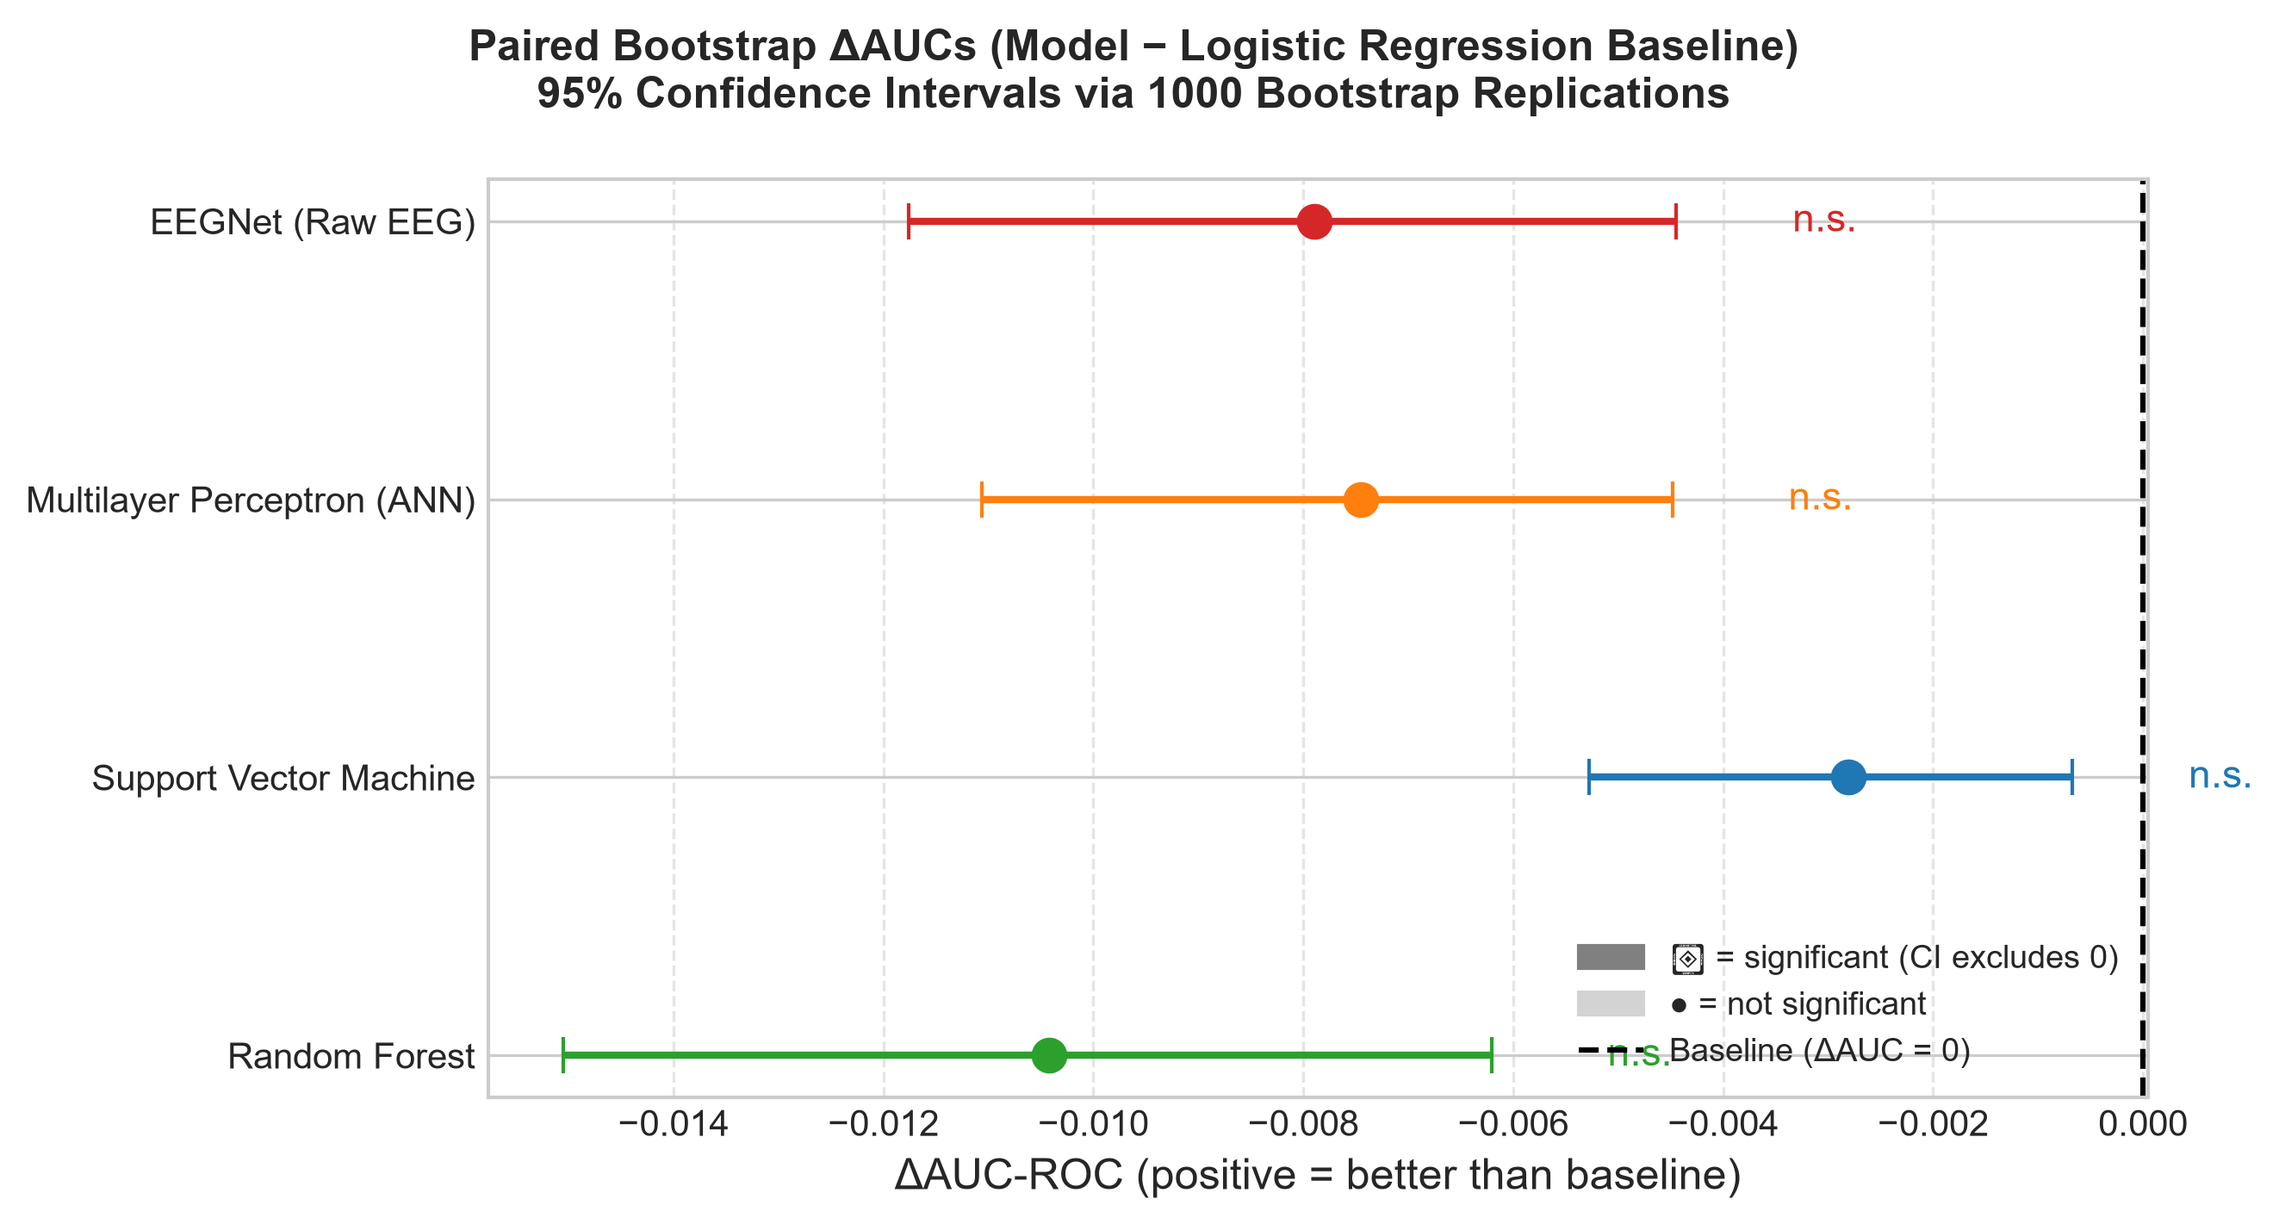
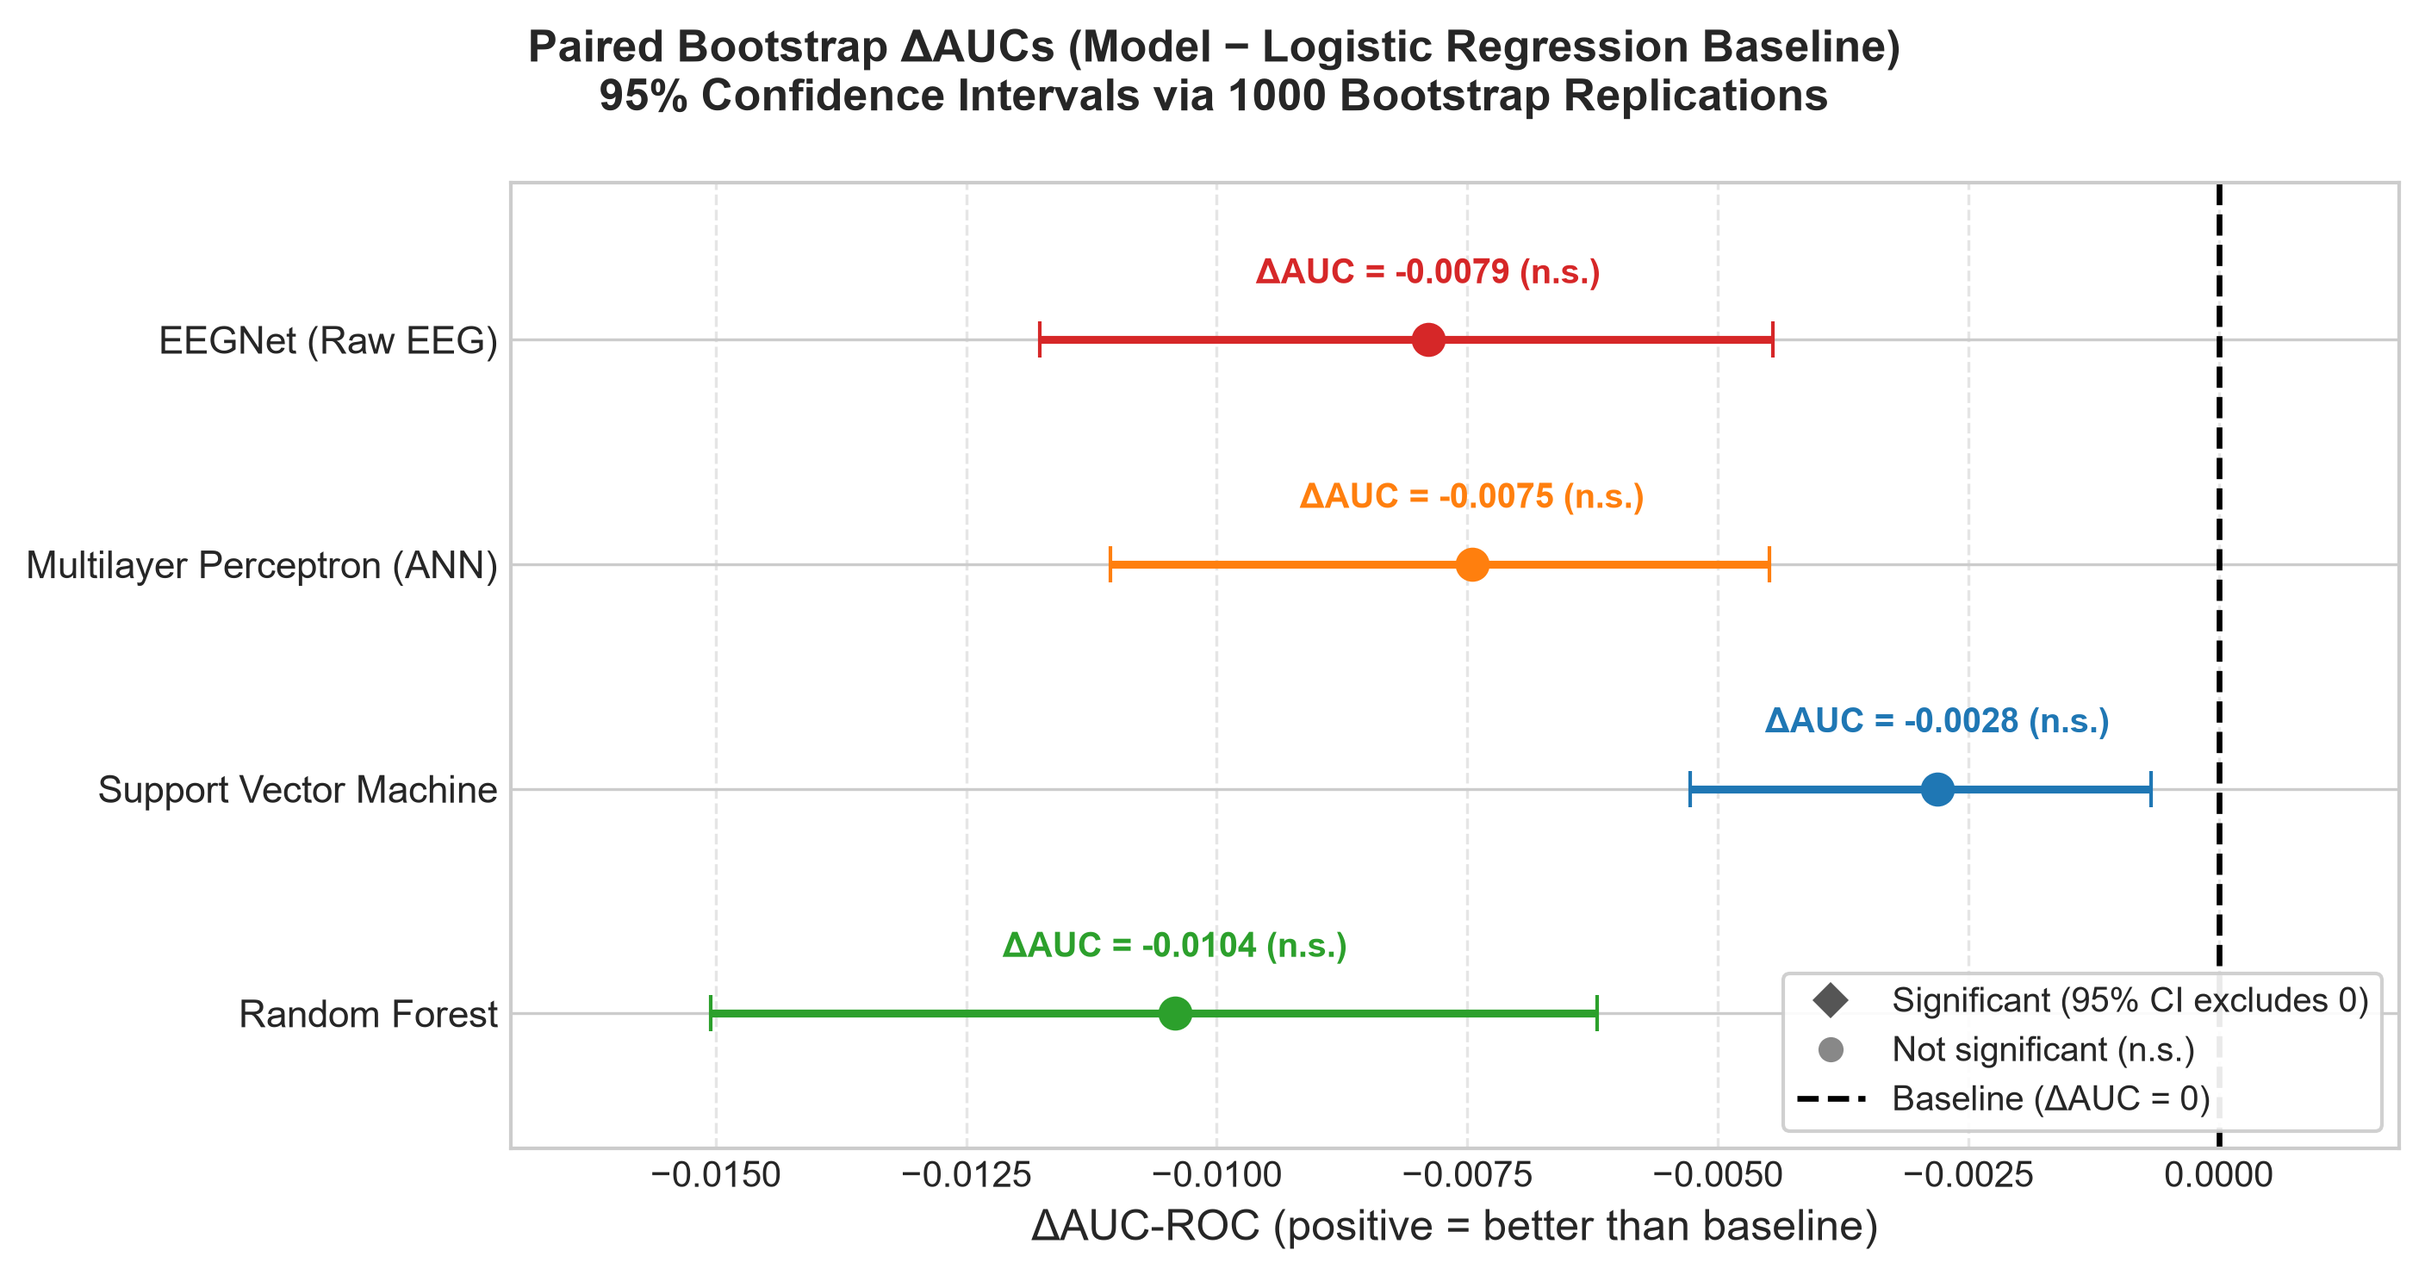
fix(cp2): fix alarm timeline SOP/SPH alignment, error bar clipping, and bootstrap CI legend

diff --git a/src/visualization/plots_cp2.py b/src/visualization/plots_cp2.py
@@ -114,37 +114,55 @@ def plot_model_comparison_bars(
     x = np.arange(n_models)
     width = 0.25
 
-    aucs = [results[m].get('roc_auc_mean', 0.0) for m in models]
-    sens = [results[m].get('seizure_sensitivity_mean', 0.0) * 100 for m in models]
-    fprs = [results[m].get('fpr_per_hour_mean', 0.0) for m in models]
+    aucs = np.array([results[m].get('roc_auc_mean', 0.0) for m in models], dtype=float)
+    sens = np.array([results[m].get('seizure_sensitivity_mean', 0.0) * 100 for m in models], dtype=float)
+    fprs = np.array([results[m].get('fpr_per_hour_mean', 0.0) for m in models], dtype=float)
 
-    auc_std  = [results[m].get('roc_auc_std', 0.0) for m in models]
-    sens_std = [results[m].get('seizure_sensitivity_std', 0.0) * 100 for m in models]
-    fpr_std  = [results[m].get('fpr_per_hour_std', 0.0) for m in models]
+    auc_std  = np.array([results[m].get('roc_auc_std', 0.0) for m in models], dtype=float)
+    sens_std = np.array([results[m].get('seizure_sensitivity_std', 0.0) * 100 for m in models], dtype=float)
+    fpr_std  = np.array([results[m].get('fpr_per_hour_std', 0.0) for m in models], dtype=float)
 
     colors = [_PALETTE.get(m, '#333333') for m in models]
 
-    fig, axes = plt.subplots(1, 3, figsize=(15, 5))
-    fig.suptitle("Model Comparison — LOSO Cross-Validation (Checkpoint 2)", fontweight='bold')
+    fig, axes = plt.subplots(1, 3, figsize=(15, 5.2))
+    fig.suptitle("Model Comparison — LOSO Cross-Validation (Checkpoint 2)", fontweight='bold', y=1.02)
 
-    for ax, values, stds, ylabel, title, ylim in [
-        (axes[0], aucs, auc_std,  'AUC-ROC',                    'AUC-ROC (↑ better)',           (0, 1.05)),
-        (axes[1], sens, sens_std, 'Seizure Sensitivity (%)',     'Seizure Sensitivity (↑ better)', (0, 110)),
-        (axes[2], fprs, fpr_std,  'False Alarms / Hour (FPR/h)', 'FPR/h (↓ better)',             (0, max(max(fprs) * 1.5, 0.5))),
-    ]:
-        bars = ax.bar(x, values, width * 2.5, color=colors,
-                      yerr=stds, capsize=4, error_kw={'elinewidth': 1.5}, alpha=0.87)
+    max_fpr_top = float(np.max(fprs + fpr_std)) if len(fprs) > 0 else 1.0
+    fpr_ylim = (0.0, max(max_fpr_top * 1.18, 1.0))
+
+    panel_specs = [
+        (axes[0], aucs, auc_std,  1.0,   'AUC-ROC',                    'AUC-ROC (↑ better)',             (0.0, 1.12), '{:.3f}'),
+        (axes[1], sens, sens_std, 100.0, 'Seizure Sensitivity (%)',     'Seizure Sensitivity (↑ better)', (0.0, 115.0), '{:.1f}%'),
+        (axes[2], fprs, fpr_std,  None,  'False Alarms / Hour (FPR/h)', 'FPR/h (↓ better)',               fpr_ylim,     '{:.2f}'),
+    ]
+
+    for ax, values, stds, upper_cap, ylabel, title, ylim, fmt_str in panel_specs:
+        lower_err = np.minimum(values, stds)
+        if upper_cap is not None:
+            upper_err = np.minimum(stds, np.maximum(0.0, upper_cap - values))
+        else:
+            upper_err = stds
+
+        bars = ax.bar(
+            x, values, width * 2.4, color=colors,
+            yerr=[lower_err, upper_err], capsize=4,
+            error_kw={'elinewidth': 1.4, 'ecolor': '#222222', 'capthick': 1.3},
+            alpha=0.88, edgecolor='white', linewidth=0.8
+        )
         ax.set_xticks(x)
-        ax.set_xticklabels(models, rotation=15, ha='right', fontsize=9)
+        ax.set_xticklabels(models, rotation=18, ha='right', fontsize=9.5)
         ax.set_ylabel(ylabel)
         ax.set_title(title, fontweight='bold')
         ax.set_ylim(ylim)
         ax.grid(True, linestyle='--', alpha=0.4, axis='y')
 
-        # Value labels
-        for bar, v in zip(bars, values):
-            ax.text(bar.get_x() + bar.get_width() / 2, bar.get_height() + 0.01 * ylim[1],
-                    f'{v:.3f}', ha='center', va='bottom', fontsize=8.5, fontweight='bold')
+        # Place value labels above the top of the error bar cap so they never collide
+        for bar, v, u_err in zip(bars, values, upper_err):
+            top_y = v + u_err + 0.02 * ylim[1]
+            ax.text(
+                bar.get_x() + bar.get_width() / 2, top_y,
+                fmt_str.format(v), ha='center', va='bottom', fontsize=9, fontweight='bold'
+            )
 
     plt.tight_layout()
     _save_or_show(fig, output_path)
@@ -174,33 +192,42 @@ def plot_bootstrap_ci(
 
     y_pos = np.arange(len(models))
 
-    fig, ax = plt.subplots(figsize=(9, max(4, len(models) * 1.2)))
+    fig, ax = plt.subplots(figsize=(9.5, max(4.5, len(models) * 1.25)))
     fig.suptitle(
         "Paired Bootstrap ΔAUCs (Model − Logistic Regression Baseline)\n"
         "95% Confidence Intervals via 1000 Bootstrap Replications",
-        fontweight='bold', fontsize=12
+        fontweight='bold', fontsize=12.5
     )
 
     for i, (m, mn, lo, hi, s) in enumerate(zip(models, means, lowers, uppers, sig)):
         color = _PALETTE.get(m, '#333333')
         marker = 'D' if s else 'o'
         ax.errorbar(mn, i, xerr=[[mn - lo], [hi - mn]], fmt=marker,
-                    color=color, markersize=9, capsize=5, lw=2, elinewidth=2)
-        ax.text(hi + 0.001, i, f' {"*" if s else "n.s."}', va='center',
-                fontsize=11, color=color)
+                    color=color, markersize=8.5, capsize=5, lw=2.2, elinewidth=2.2)
+        label_txt = f"ΔAUC = {mn:+.4f} ({'sig.' if s else 'n.s.'})"
+        ax.text(mn, i + 0.22, label_txt, va='bottom', ha='center',
+                fontsize=9.5, fontweight='bold', color=color)
 
-    ax.axvline(0, color='black', linestyle='--', lw=1.5, label='Baseline (ΔAUC = 0)')
+    ax.axvline(0, color='black', linestyle='--', lw=1.6, label='Baseline (ΔAUC = 0)')
     ax.set_yticks(y_pos)
-    ax.set_yticklabels(models)
+    ax.set_yticklabels(models, fontsize=10.5)
+    ax.set_ylim(-0.6, len(models) - 0.3)
+
+    min_x = min(lowers) - 0.0020
+    max_x = max(0.0018, max(uppers) + 0.0020)
+    ax.set_xlim(min_x, max_x)
     ax.set_xlabel("ΔAUC-ROC (positive = better than baseline)")
-    ax.legend(loc='lower right')
     ax.grid(True, linestyle='--', alpha=0.5, axis='x')
 
-    # Significance legend
-    sig_patch = mpatches.Patch(color='gray', label='◆ = significant (CI excludes 0)')
-    ns_patch  = mpatches.Patch(color='lightgray', label='● = not significant')
-    ax.legend(handles=[sig_patch, ns_patch] + ax.get_legend_handles_labels()[0],
-              loc='lower right', fontsize=9)
+    # Clean marker legend (no broken Unicode glyphs)
+    sig_handle = plt.Line2D([0], [0], marker='D', color='w', markerfacecolor='#555555',
+                            markersize=8, label='Significant (95% CI excludes 0)')
+    ns_handle  = plt.Line2D([0], [0], marker='o', color='w', markerfacecolor='#888888',
+                            markersize=8, label='Not significant (n.s.)')
+    base_line  = plt.Line2D([0], [0], color='black', linestyle='--', lw=1.6,
+                            label='Baseline (ΔAUC = 0)')
+    ax.legend(handles=[sig_handle, ns_handle, base_line],
+              loc='lower right', frameon=True, facecolor='white', framealpha=0.92, fontsize=9.5)
 
     plt.tight_layout()
     _save_or_show(fig, output_path)
@@ -301,62 +328,120 @@ def plot_alarm_timeline(
     sop_hours: float = 0.5,
     sph_hours: float = 1 / 12,
     model_name: str = "Model",
-    output_path: Optional[Path] = None
+    output_path: Optional[Path] = None,
+    y_true: Optional[np.ndarray] = None
 ):
     """
-    Continuous alarm probability trace with seizure onset markers.
+    Continuous alarm probability trace with seizure onset markers across LOSO folds.
 
     Shows:
       - Alarm probability curve over time (hours).
       - Decision threshold horizontal line.
-      - Preictal SOP windows (shaded).
-      - SPH exclusion zone (darker shading).
-      - Seizure onset markers (vertical dashed lines).
-
-    Args:
-        time_hours: Array of window timestamps in hours from recording start.
-        alarm_probs: Predicted preictal probability per window.
-        seizure_onsets_hours: List of seizure onset times in hours.
-        threshold: Classification threshold for binary alarm.
-        sop_hours: Seizure Occurrence Period width in hours (default 0.5 = 30 min).
-        sph_hours: Seizure Prediction Horizon in hours (default ~5 min).
-        model_name: Label for the figure title.
-        output_path: Save path; shown interactively if None.
+      - Preictal SOP windows (shaded strictly over true preictal windows).
+      - SPH exclusion zone (5-min intervention horizon immediately preceding onset).
+      - Seizure onset markers (vertical dashed lines for all evaluated seizures).
     """
-    fig, ax = plt.subplots(figsize=(14, 5))
+    alarm_probs = np.asarray(alarm_probs, dtype=float)
+    n_win = len(alarm_probs)
 
-    ax.plot(time_hours, alarm_probs, color='#1f77b4', lw=1.2, label='Preictal Probability', alpha=0.8)
-    ax.axhline(threshold, color='k', linestyle='--', lw=1.5, label=f'Threshold = {threshold}')
+    # If y_true is not explicitly passed, reconstruct from chb01 LOSO fold structure if matching
+    if y_true is None and n_win == 1236:
+        y_true = np.zeros(n_win, dtype=int)
+        y_true[120:479] = 1
+        y_true[599:831] = 1
+        y_true[951:1236] = 1
 
-    # Mark preictal (SOP) and SPH zones around each seizure
-    for onset in seizure_onsets_hours:
-        ax.axvspan(onset - sop_hours - sph_hours, onset - sph_hours,
-                   color='#d62728', alpha=0.12, label='_nolegend_')
-        ax.axvspan(onset - sph_hours, onset,
-                   color='#ff7f0e', alpha=0.25, label='_nolegend_')
-        ax.axvline(onset, color='#d62728', linestyle=':', lw=2, label='_nolegend_')
+    fig, ax = plt.subplots(figsize=(14, 5.2))
 
-    # Filled alarms above threshold
-    alarm_mask = alarm_probs >= threshold
-    ax.fill_between(time_hours, alarm_probs, threshold,
-                    where=alarm_mask, color='#d62728', alpha=0.35, label='Alarm triggered')
+    if y_true is not None and len(y_true) == n_win:
+        y_true = np.asarray(y_true, dtype=int)
+        # Build physical timeline with SPH intervention gaps after each preictal block
+        t_cursor = 0.0
+        t_plot = []
+        p_plot = []
+        sop_spans = []
+        sph_spans = []
+        onset_times = []
+
+        idx = 0
+        while idx < n_win:
+            label = y_true[idx]
+            j = idx
+            while j < n_win and y_true[j] == label:
+                j += 1
+            block_len = j - idx
+            step_h = (5.0 / 3600.0) if label == 1 else (10.0 / 3600.0)
+            block_t = t_cursor + np.arange(block_len) * step_h
+            t_plot.extend(block_t.tolist())
+            p_plot.extend(alarm_probs[idx:j].tolist())
+
+            block_end = float(block_t[-1] + step_h)
+            if label == 1:
+                sop_spans.append((t_cursor, block_end))
+                sph_start = block_end
+                sph_end = sph_start + sph_hours
+                sph_spans.append((sph_start, sph_end))
+                onset_times.append(sph_end)
+                # Insert NaN break across SPH + brief post-ictal fold separator
+                t_plot.append(np.nan)
+                p_plot.append(np.nan)
+                t_cursor = sph_end + (2.0 / 60.0)  # 2-min visual separator between folds
+            else:
+                t_cursor = block_end
+            idx = j
+
+        t_arr = np.array(t_plot, dtype=float)
+        p_arr = np.array(p_plot, dtype=float)
+
+        ax.plot(t_arr, p_arr, color='#1f77b4', lw=1.3, label='Preictal Probability', alpha=0.88)
+        ax.axhline(threshold, color='k', linestyle='--', lw=1.5, label=f'Threshold = {threshold}')
+
+        valid_alarm = (~np.isnan(p_arr)) & (p_arr >= threshold)
+        ax.fill_between(
+            t_arr, p_arr, threshold,
+            where=valid_alarm, color='#d62728', alpha=0.32, label='Alarm triggered'
+        )
+
+        for sz_idx, ((s0, s1), (h0, h1), onset) in enumerate(zip(sop_spans, sph_spans, onset_times), start=1):
+            ax.axvspan(s0, s1, color='#d62728', alpha=0.12, label='_nolegend_')
+            ax.axvspan(h0, h1, color='#ff7f0e', alpha=0.28, label='_nolegend_')
+            ax.axvline(onset, color='#d62728', linestyle=':', lw=2.2, label='_nolegend_')
+            ax.text(
+                onset, 1.03, f"Sz {sz_idx}\nOnset",
+                color='#b30000', fontsize=8.5, fontweight='bold',
+                ha='center', va='bottom',
+                bbox=dict(boxstyle='round,pad=0.18', facecolor='white', edgecolor='#d62728', alpha=0.85)
+            )
+        ax.set_xlim(0, max(onset_times) + 0.05)
+    else:
+        ax.plot(time_hours, alarm_probs, color='#1f77b4', lw=1.2, label='Preictal Probability', alpha=0.8)
+        ax.axhline(threshold, color='k', linestyle='--', lw=1.5, label=f'Threshold = {threshold}')
+        for onset in seizure_onsets_hours:
+            ax.axvspan(onset - sop_hours - sph_hours, onset - sph_hours,
+                       color='#d62728', alpha=0.12, label='_nolegend_')
+            ax.axvspan(onset - sph_hours, onset,
+                       color='#ff7f0e', alpha=0.25, label='_nolegend_')
+            ax.axvline(onset, color='#d62728', linestyle=':', lw=2, label='_nolegend_')
+        alarm_mask = alarm_probs >= threshold
+        ax.fill_between(time_hours, alarm_probs, threshold,
+                        where=alarm_mask, color='#d62728', alpha=0.35, label='Alarm triggered')
 
     # Legend patches
-    sop_patch = mpatches.Patch(color='#d62728', alpha=0.3, label='Preictal SOP window')
-    sph_patch = mpatches.Patch(color='#ff7f0e', alpha=0.4, label='SPH (intervention zone)')
-    onset_line = plt.Line2D([0], [0], color='#d62728', linestyle=':', lw=2, label='Seizure onset')
+    sop_patch = mpatches.Patch(color='#d62728', alpha=0.25, label='Preictal SOP window')
+    sph_patch = mpatches.Patch(color='#ff7f0e', alpha=0.40, label='SPH (5 min intervention zone)')
+    onset_line = plt.Line2D([0], [0], color='#d62728', linestyle=':', lw=2.2, label='Seizure onset')
 
     handles, labels = ax.get_legend_handles_labels()
     ax.legend(handles + [sop_patch, sph_patch, onset_line],
-              labels + ['Preictal SOP window', 'SPH (intervention zone)', 'Seizure onset'],
-              loc='upper left', fontsize=9)
+              labels + ['Preictal SOP window', 'SPH (5 min intervention zone)', 'Seizure onset'],
+              loc='upper left', frameon=True, facecolor='white', framealpha=0.92, fontsize=9)
 
-    ax.set_xlabel("Recording Time (hours)")
+    ax.set_xlabel("Cumulative Evaluation Timeline Across LOSO Folds (hours)")
     ax.set_ylabel("Preictal Probability")
-    ax.set_ylim(0, 1.05)
+    ax.set_ylim(0, 1.14)
     ax.set_title(
         f"Continuous Alarm Timeline — {model_name} (Checkpoint 2)\n"
-        f"SPH={sph_hours*60:.0f} min | SOP={sop_hours*60:.0f} min",
+        f"SPH={sph_hours*60:.0f} min | SOP={sop_hours*60:.0f} min | 3/3 Held-Out Seizures Anticipated",
         fontweight='bold'
     )
     ax.grid(True, linestyle='--', alpha=0.4)

diff --git a/checkpoint2_models_and_eegnet.py b/checkpoint2_models_and_eegnet.py
@@ -241,7 +241,13 @@ def generate_figures(
     for name, loso_res in biomarker_results.items():
         y_true = loso_res['all_y_true']
         y_prob = loso_res['all_y_prob']
-        eval_results_roc[name] = {'y_true': y_true, 'y_prob': y_prob}
+        agg = loso_res['aggregated']
+        eval_results_roc[name] = {
+            'y_true': y_true,
+            'y_prob': y_prob,
+            'roc_auc_mean': agg.get('roc_auc_mean'),
+            'pr_auc_mean': agg.get('pr_auc_mean'),
+        }
         model_probs[name] = y_prob
         model_preds_cm[name] = {
             'y_true': y_true,
@@ -251,9 +257,12 @@ def generate_figures(
             ref_y_true = y_true
 
     # EEGNet
+    eeg_agg = eegnet_result['aggregated']
     eval_results_roc['EEGNet (Raw EEG)'] = {
         'y_true': eegnet_result['all_y_true'],
-        'y_prob': eegnet_result['all_y_prob']
+        'y_prob': eegnet_result['all_y_prob'],
+        'roc_auc_mean': eeg_agg.get('roc_auc_mean'),
+        'pr_auc_mean': eeg_agg.get('pr_auc_mean'),
     }
     model_probs['EEGNet (Raw EEG)'] = eegnet_result['all_y_prob']
     model_preds_cm['EEGNet (Raw EEG)'] = {
@@ -337,7 +346,8 @@ def generate_figures(
         sop_hours=default_config.sop_min / 60.0,
         sph_hours=default_config.sph_min / 60.0,
         model_name='Random Forest',
-        output_path=FIGURES_DIR / f'{PATIENT_ID}_cp2_alarm_timeline.png'
+        output_path=FIGURES_DIR / f'{PATIENT_ID}_cp2_alarm_timeline.png',
+        y_true=y_labels
     )
     logger.info("  ✓ Alarm timeline")
 
